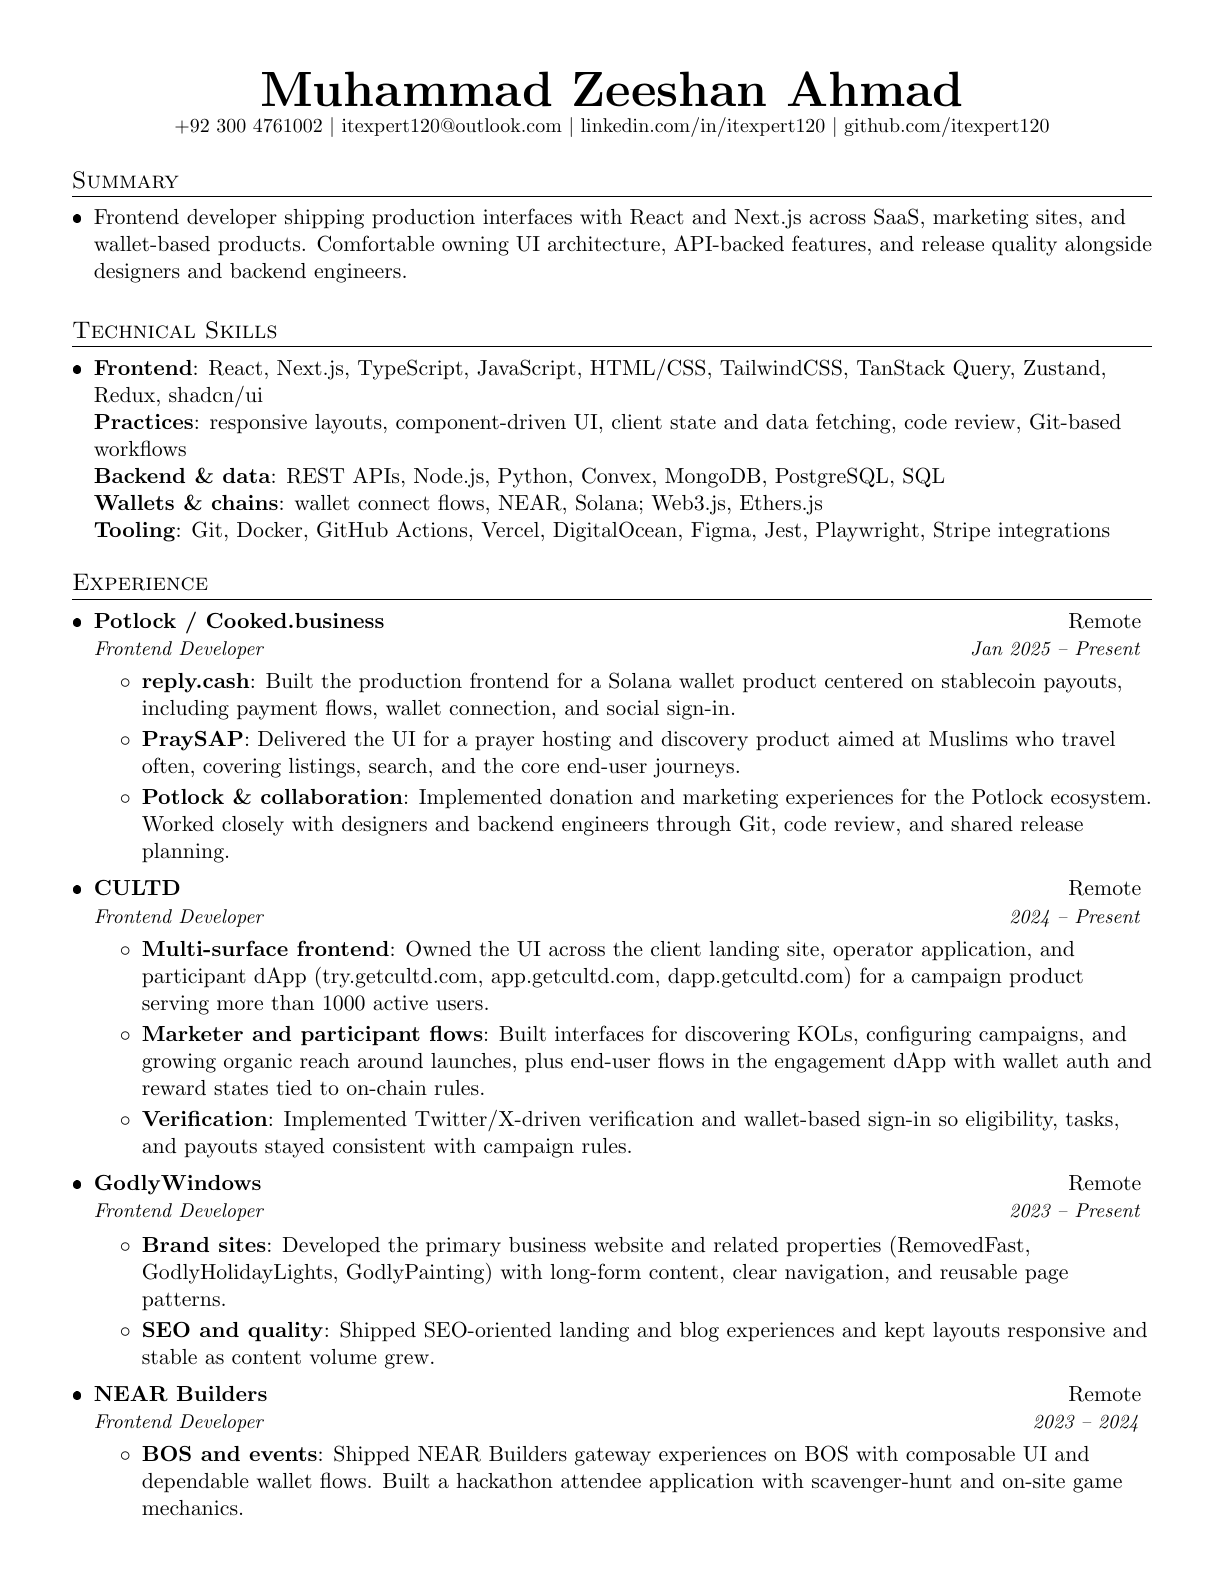
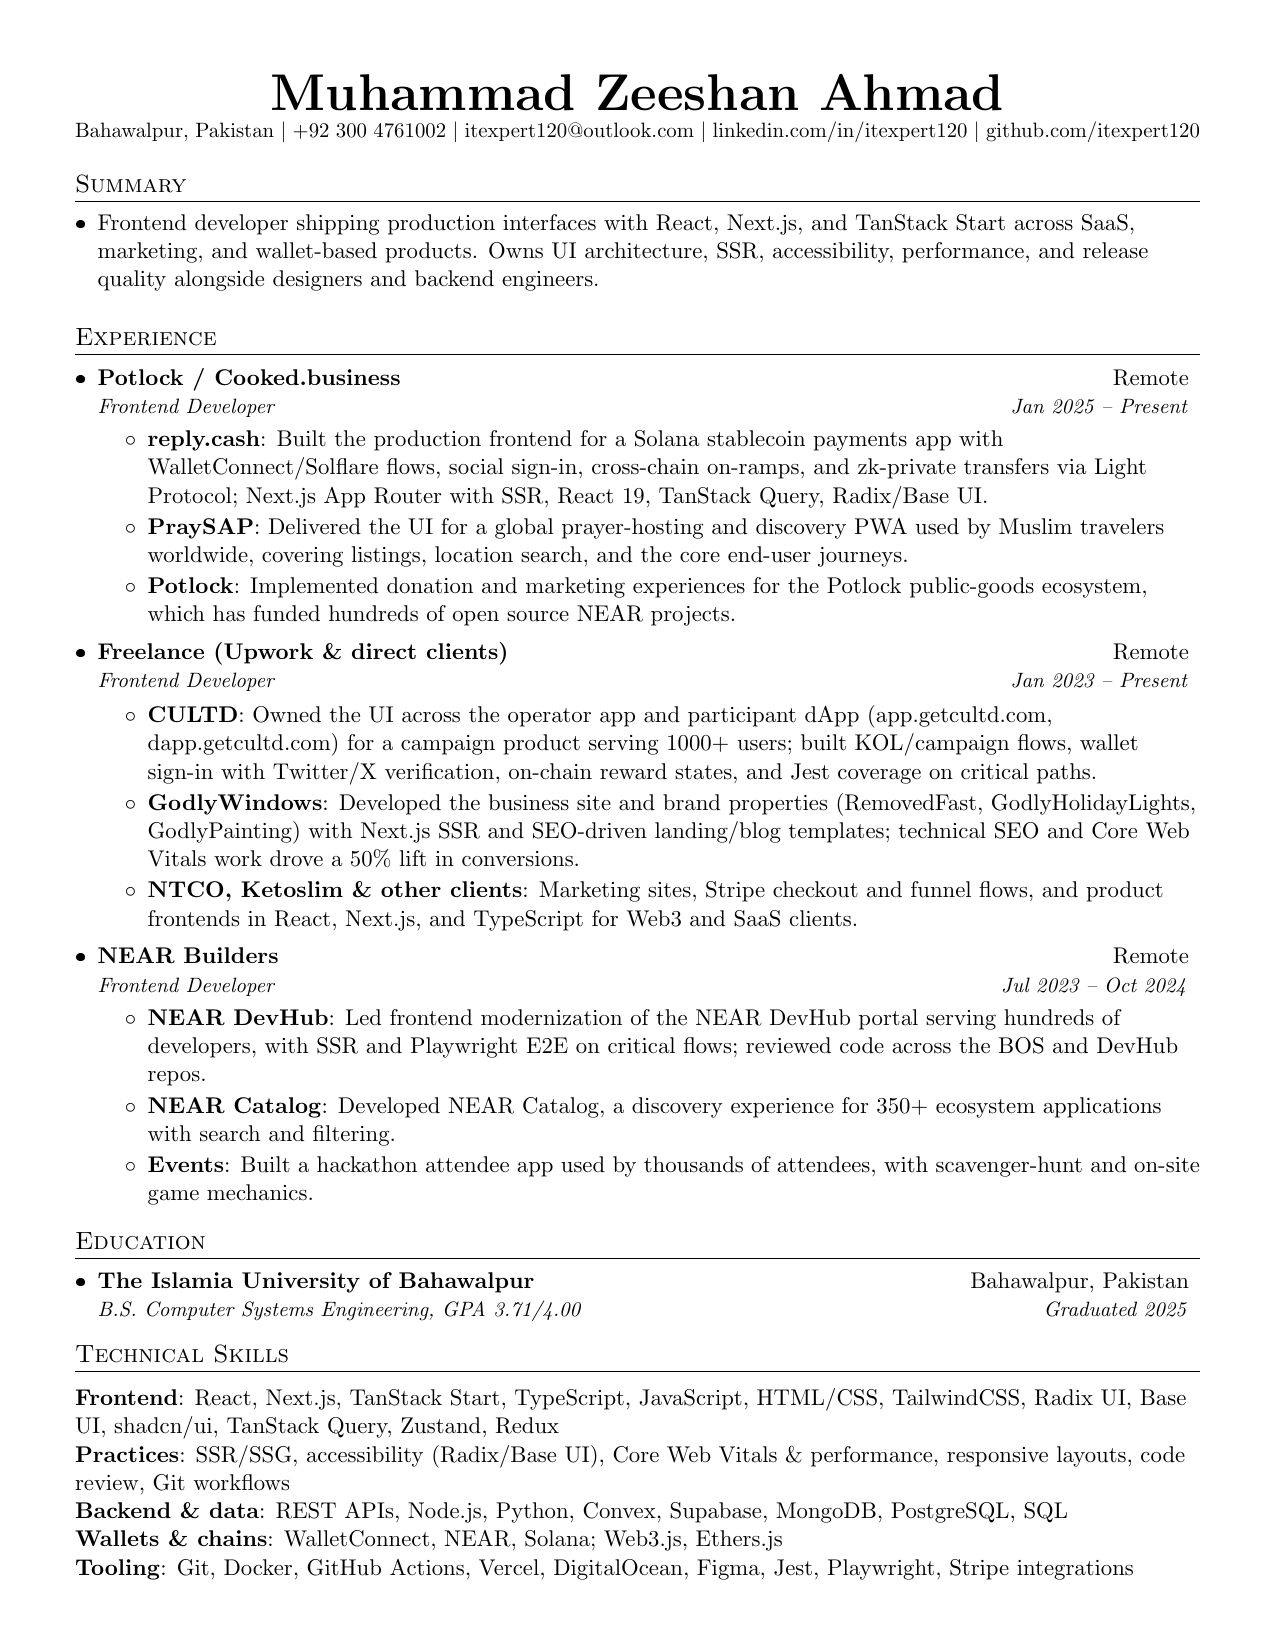
silence warning

Changed region(s): [[0.0621, 0.0309, 0.9314, 0.959]]

diff --git a/resume.tex b/resume.tex
@@ -20,6 +20,7 @@
 \pagestyle{fancy}
 \fancyhf{} % Clear all header and footer fields
 \fancyfoot{}
+\setlength{\footskip}{12pt}
 \renewcommand{\headrulewidth}{0pt}
 \renewcommand{\footrulewidth}{0pt}
 
